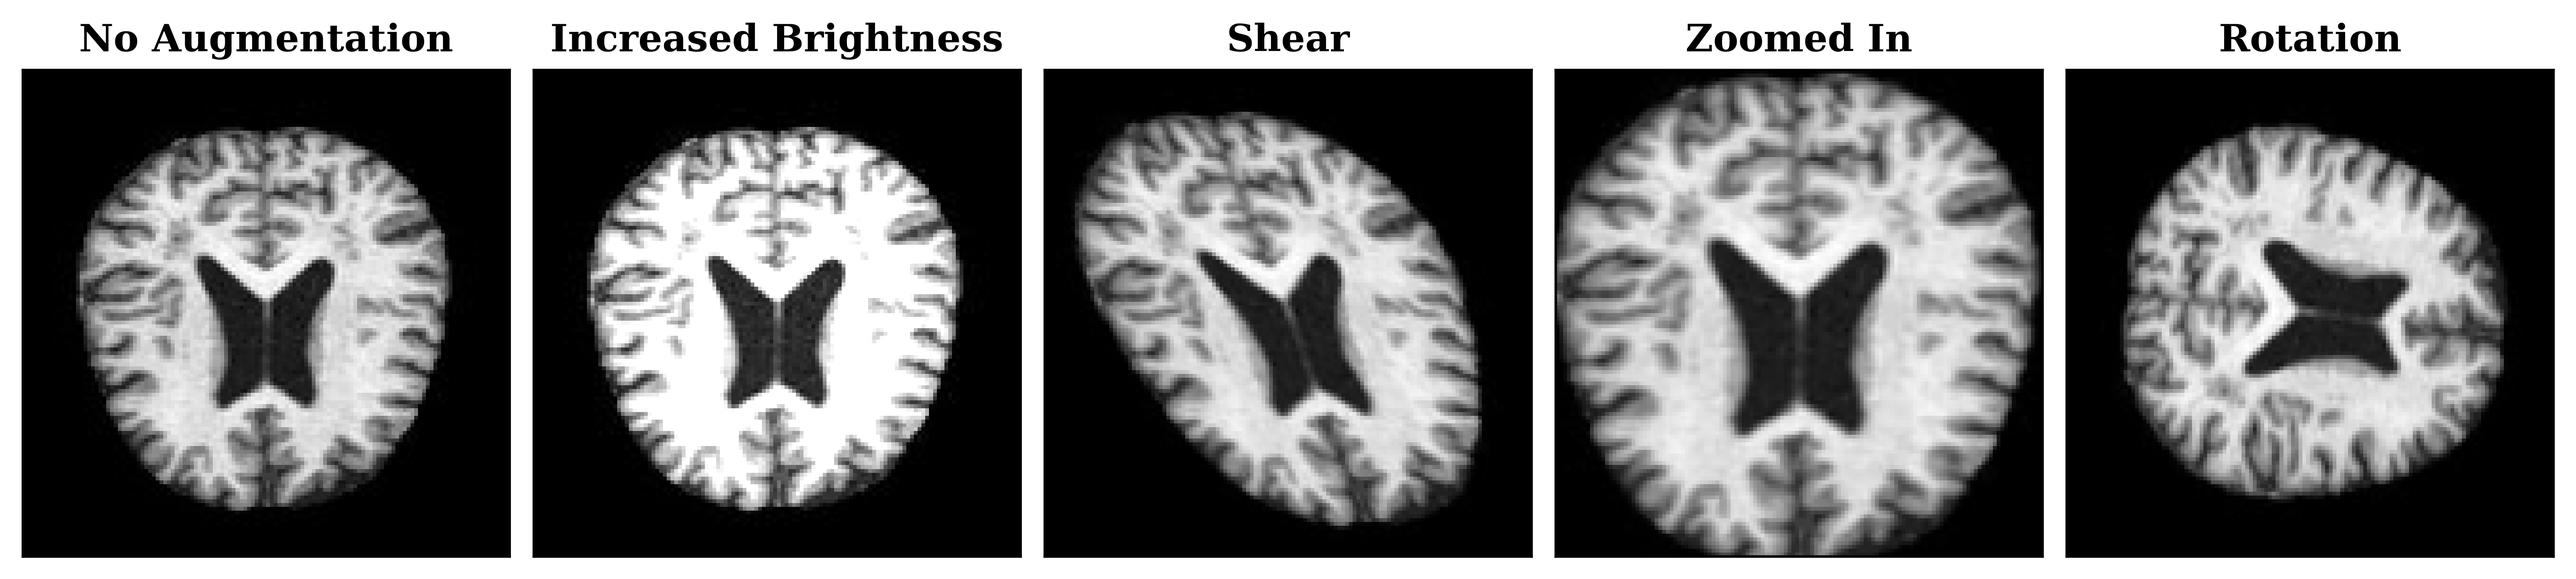
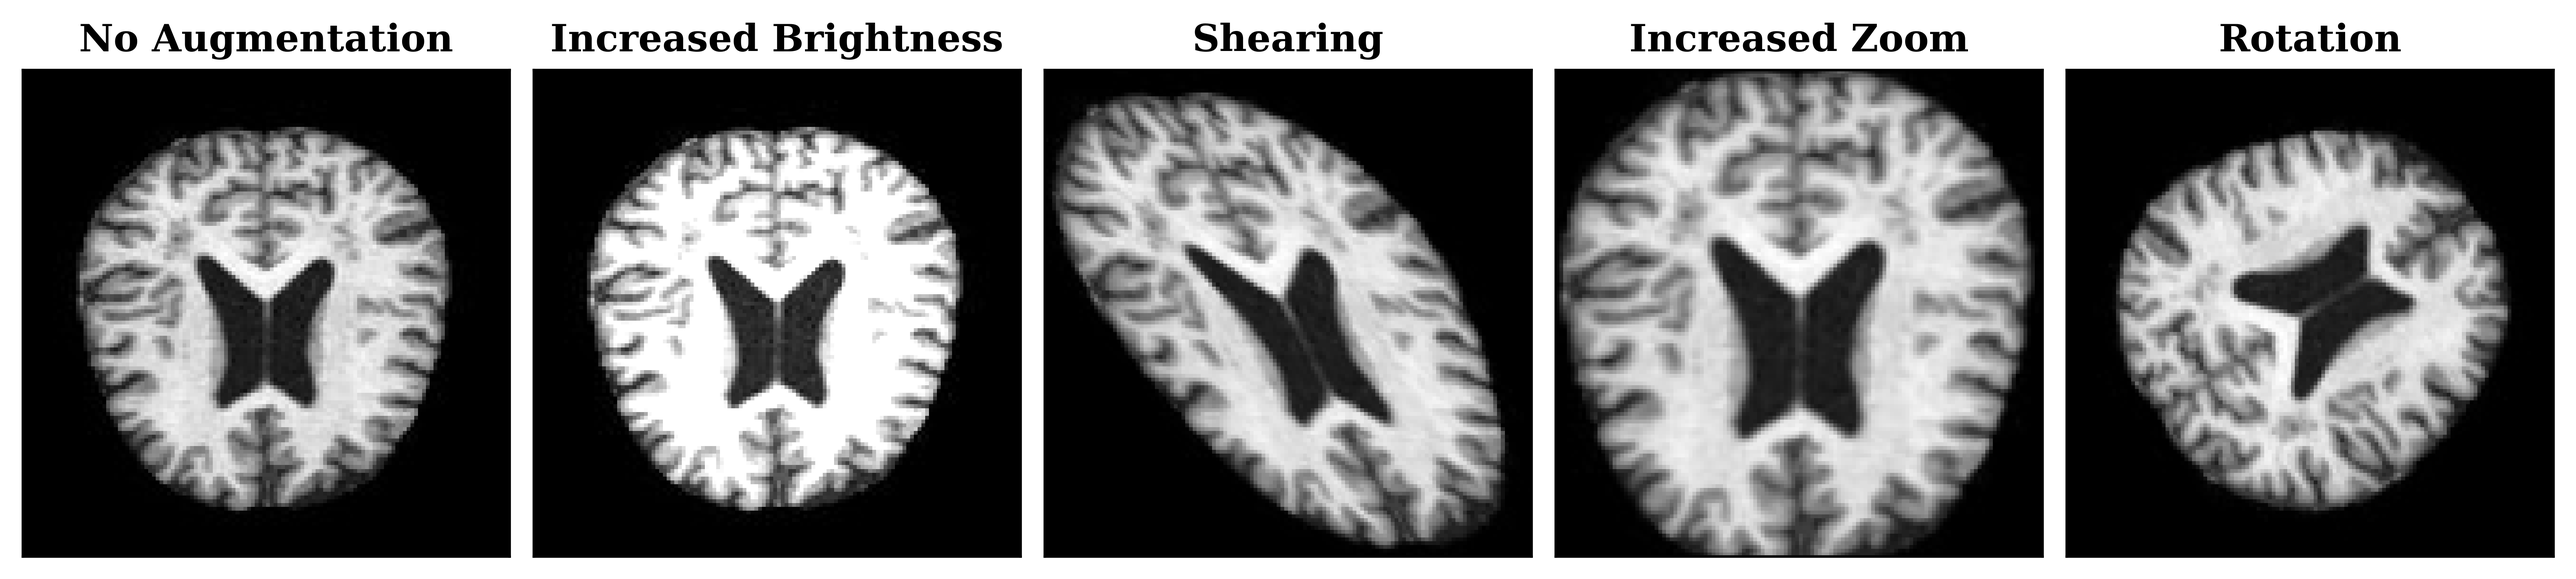
updated titles

Changed region(s): [[0.4062, 0.1226, 1.0, 0.9811], [0.625, 0.0307, 0.7812, 0.092], [0.4688, 0.0307, 0.5312, 0.092]]

diff --git a/src/illustration.py b/src/illustration.py
@@ -97,8 +97,8 @@ def main():
     titles = [
         "No Augmentation",
         "Increased Brightness",
-        "Shear",
-        "Zoomed In",
+        "Shearing",
+        "Increased Zoom",
         "Rotation"]
 
     # get image using each augmentation
